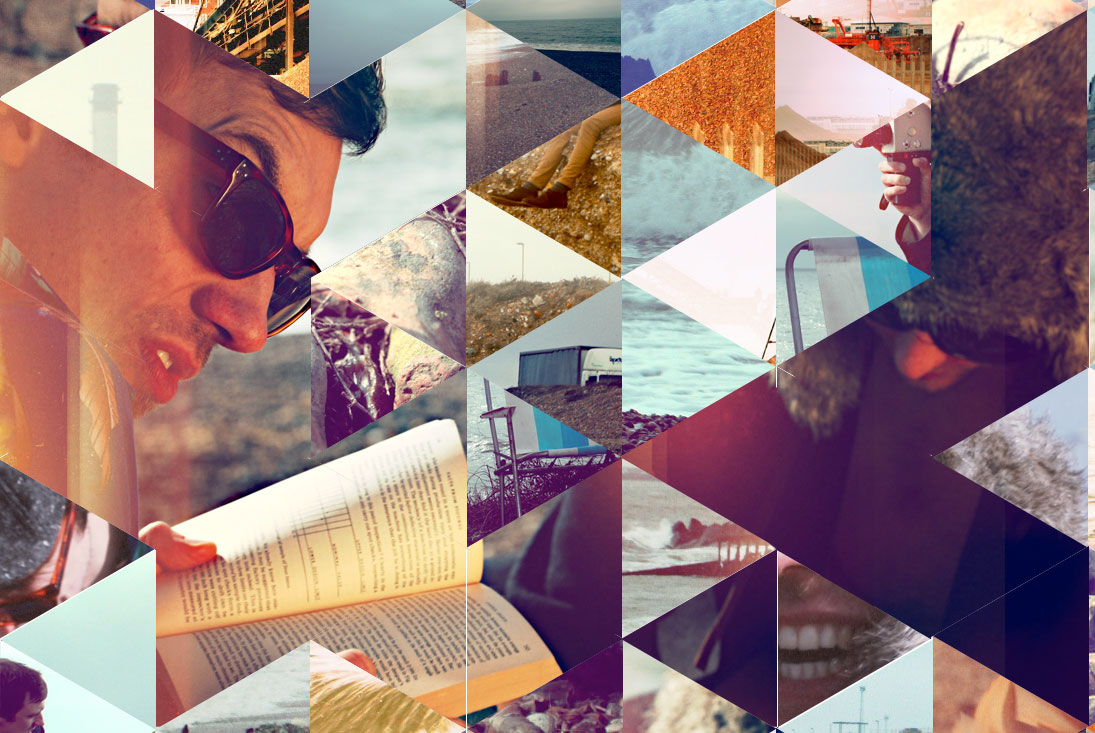
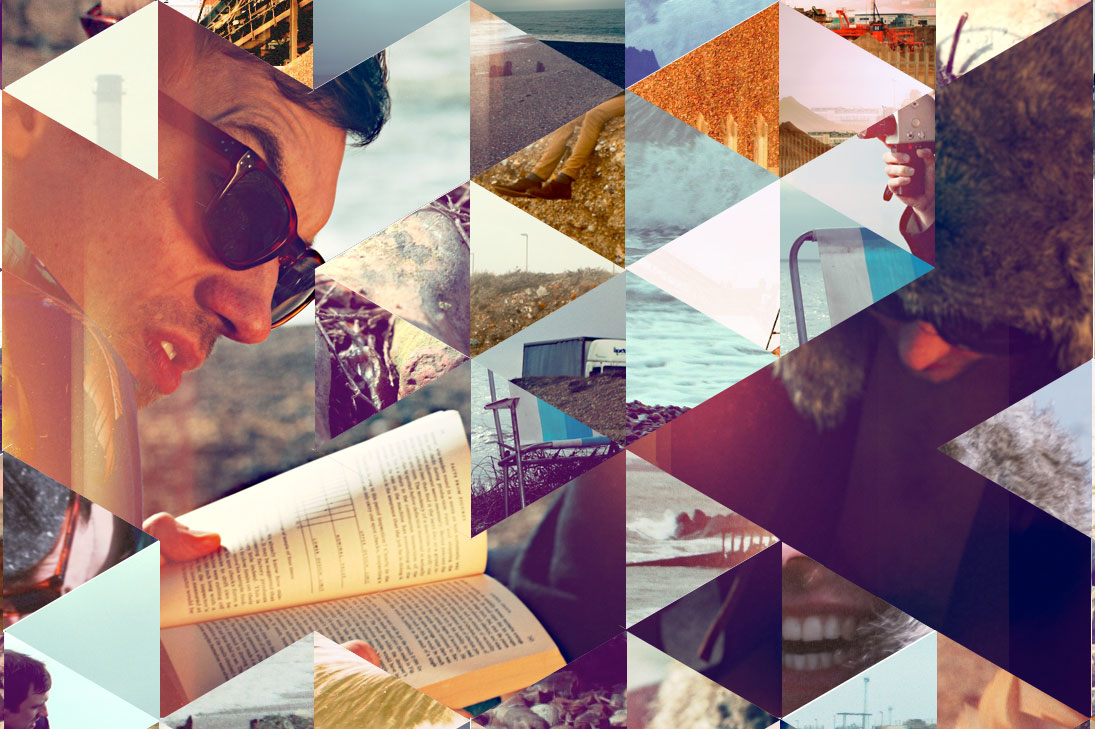
Tweak images, prevent scrollbars from appearing and resize images to document height to prevent clipping when viewed in a reduced viewport.

Changed region(s): [[0.0, 0.0, 1.0, 1.0], [0.0, 0.3018, 0.0311, 0.3621], [0.0621, 0.1811, 0.0932, 0.2112]]

diff --git a/assets/stylesheets/src/vacationists.scss b/assets/stylesheets/src/vacationists.scss
@@ -6,6 +6,7 @@ body {
   color: #000;
   background: #f9eeec;
   font: 100%/1.5 futura, "Helvetica Neue", Helvetica, Arial, sans-serif; *font-size: 1em;
+  overflow:auto;
 
   @media screen and (min-width: 600px) {
     background: url(/assets/vbg.jpg);
@@ -56,36 +57,24 @@ body.js-enabled {
 
 @mixin track_image($id, $img, $width, $height, $top, $left) {
   .img_#{$id} {
-    background: url(/assets/#{$img}) no-repeat;
-    width: $width;
-    height: $height;
-    top: $top;
-    left: $left;
+    background: url(/assets/#{$img}) $left $top no-repeat;
+    width: 100%;
+    height: 100%;
   }
 }
 
 .images {
-  position: fixed;
-  top: 0;
-  left: 0;
   display: none;
 
   .img_1, .img_2 {
     position: absolute;
     z-index: -1;
+    top: 0;
+    left: 0;
   }
 
   @media screen and (min-width: 600px) {
     display: block;
-  }
-
-  &.track_3 {
-   @include track_image(1, 'tr_a_1.jpg', 311px, 538px, 148px, 240px);
-   @include track_image(2, 'tr_a_2.jpg', 467px, 449px, 238px, 1017px);
-  }
-
-  &.track_5 {
-   @include track_image(1, 'tr_b_1.jpg', 777px, 632px, 414px, 553px);
   }
 
   &.track_1 {
@@ -93,17 +82,26 @@ body.js-enabled {
    @include track_image(2, 'tr_f_2.jpg', 322px, 635px, 237px, 859px);
   }
 
-  &.track_6 {
-   @include track_image(1, 'tr_c_1.jpg', 466px, 726px, 57px, 86px);
-   @include track_image(2, 'tr_c_2.jpg', 471px, 635px, 237px, 859px);
+  &.track_2 {
+   @include track_image(1, 'tr_e.jpg', 783px, 830px, 229px, 547px);
+  }
+
+  &.track_3 {
+   @include track_image(1, 'tr_a_1.jpg', 311px, 538px, 148px, 240px);
+   @include track_image(2, 'tr_a_2.jpg', 312px, 452px, 238px, 1017px);
   }
 
   &.track_4 {
-   @include track_image(1, 'tr_d.jpg', 1095px, 733px, 139px, 86px);
+   @include track_image(1, 'tr_d.jpg', 1095px, 729px, 148px, 82px);
   }
 
-  &.track_2 {
-   @include track_image(1, 'tr_e.jpg', 783px, 830px, 229px, 547px);
+  &.track_5 {
+   @include track_image(1, 'tr_b_1.jpg', 777px, 632px, 414px, 553px);
+  }
+
+  &.track_6 {
+   @include track_image(1, 'tr_c_1.jpg', 466px, 726px, 57px, 86px);
+   @include track_image(2, 'tr_c_2.jpg', 471px, 635px, 237px, 859px);
   }
 }
 

diff --git a/assets/javascripts/src/site.js b/assets/javascripts/src/site.js
@@ -100,7 +100,11 @@ $(document).ready(function() {
     $($(this).attr('href')).hide();
   });
 
-   var grid = new hashgrid({
-     numberOfGrids: 1
-   });
+  $(window).resize(function () {
+    $('.images div').height($(document).height());
+  });
+
+   // var grid = new hashgrid({
+   //   numberOfGrids: 1
+   // });
 });
